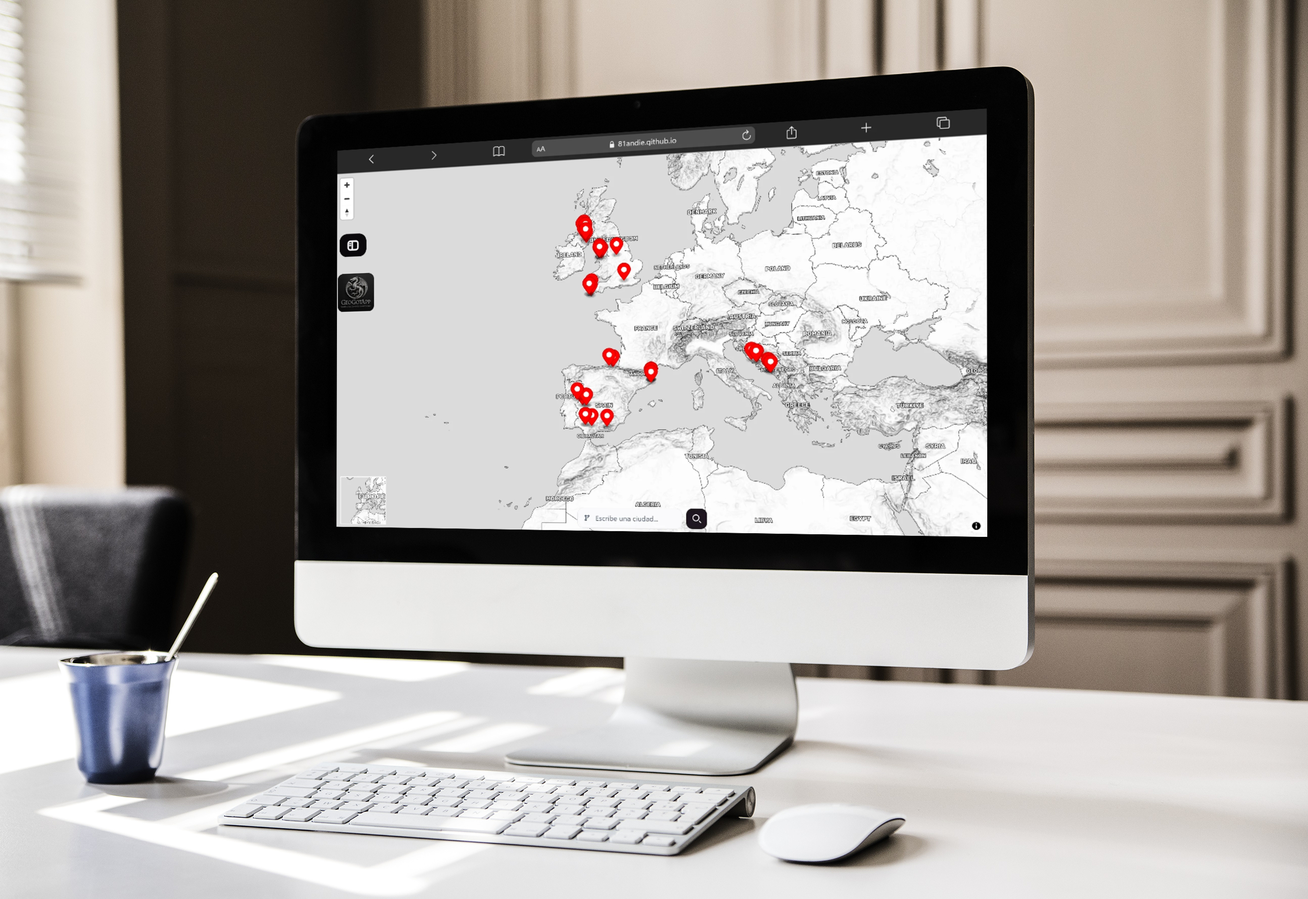
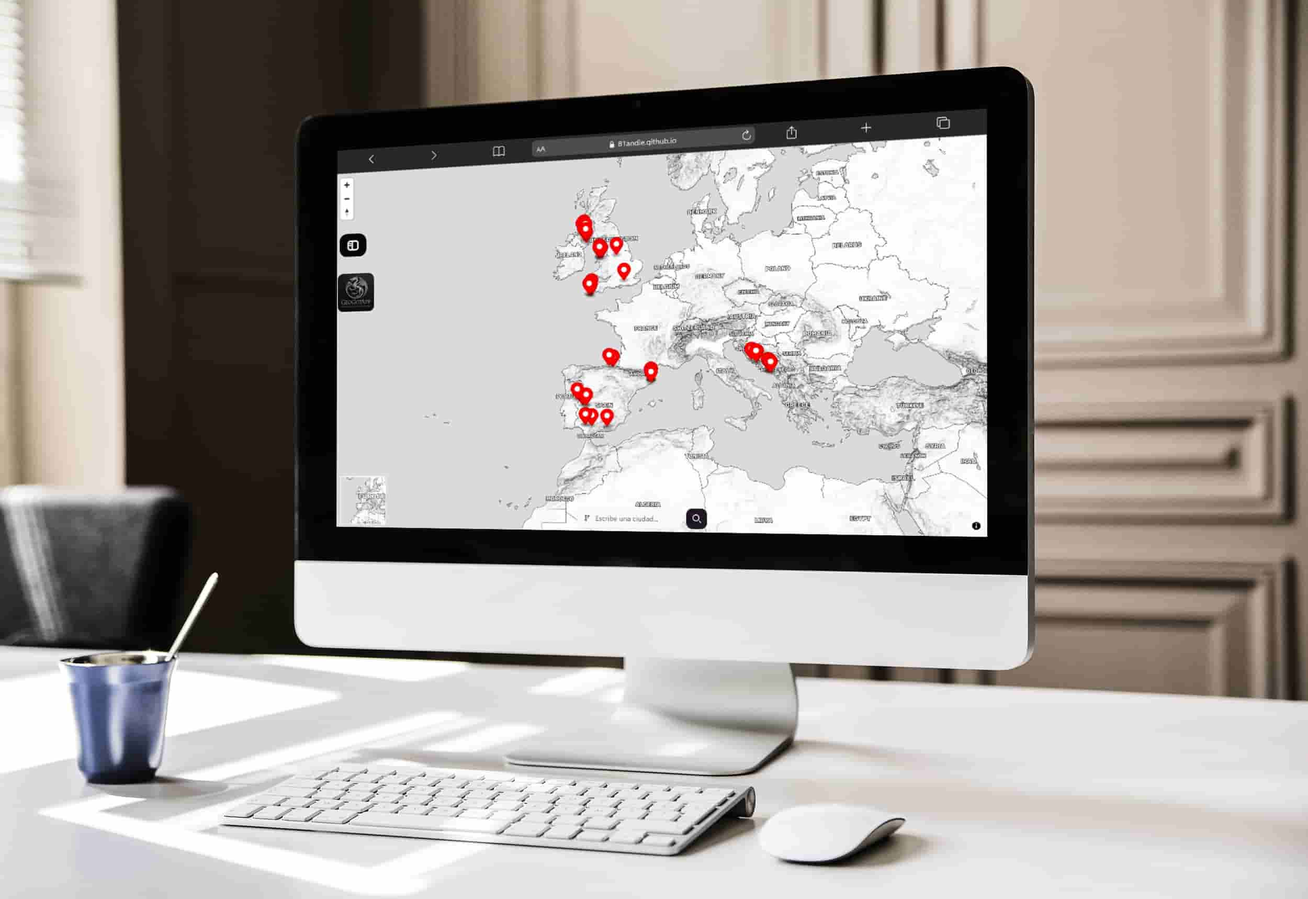
optimizando imag

diff --git a/src/Components/Cabecera.jsx b/src/Components/Cabecera.jsx
@@ -98,7 +98,7 @@ export const Cabecera = () => {
             {
                 hrefDemo: "https://81andie.github.io/got/",
                 href2Github: "https://github.com/81andie/got",
-                src: "img/gotLeaflet.png",
+                src: "img/gotLeaflet.jpg",
                 title: "GeoGotApp",
                 className: "md:h-72 lg:h-32 2xl:h-92",
                 id: 1

diff --git a/src/App.css b/src/App.css
@@ -41,7 +41,7 @@
   font-family: "Special Elite", system-ui;
   font-weight: 100;
   font-style: normal;
-  color: var(--color--pinkCode);
+  color: var(--color--malva);
 
 }
 
